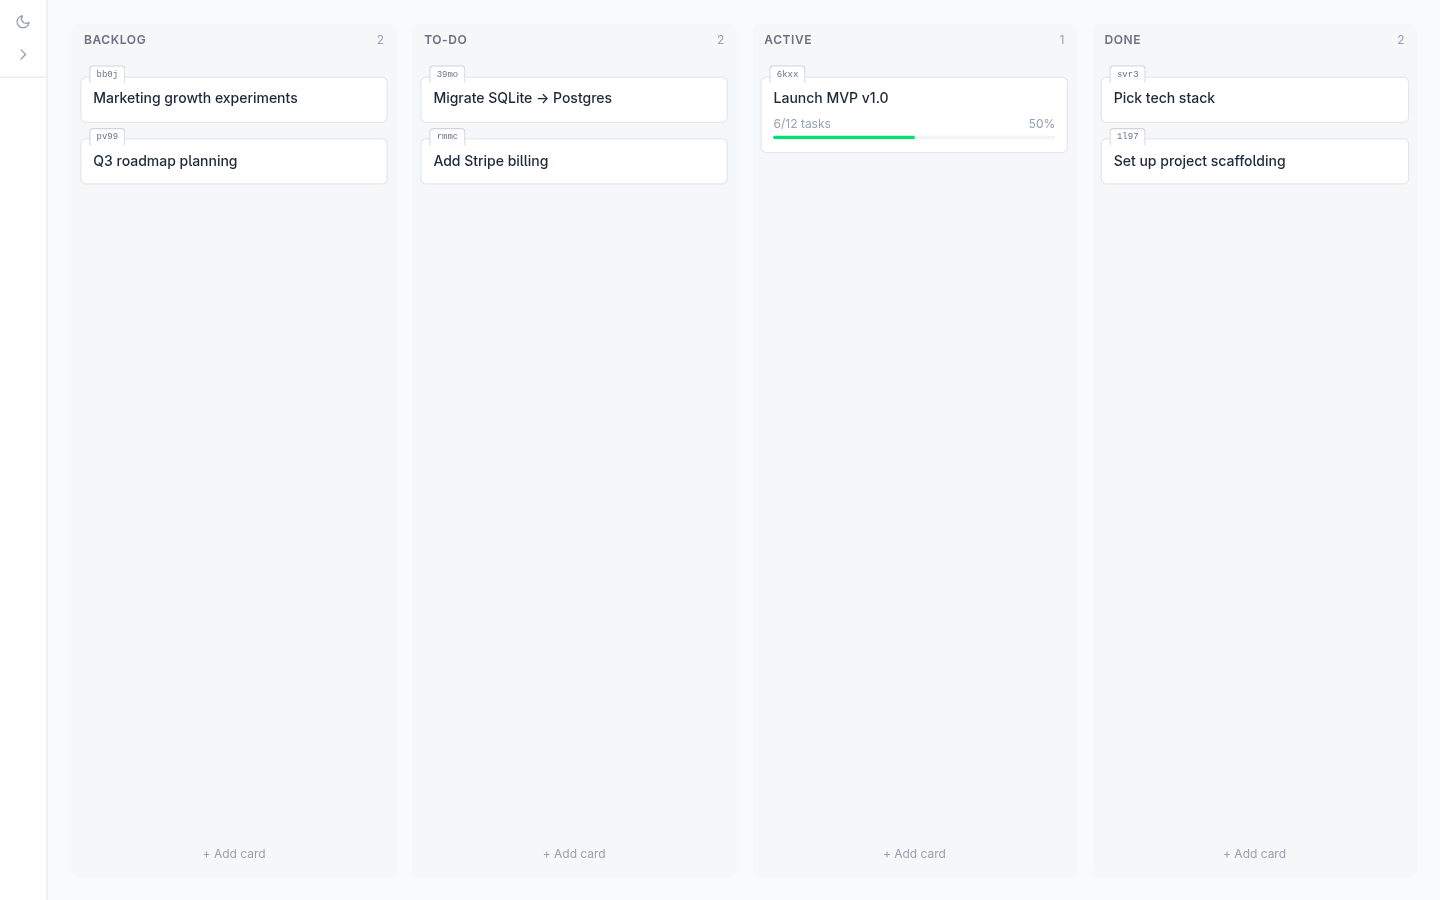
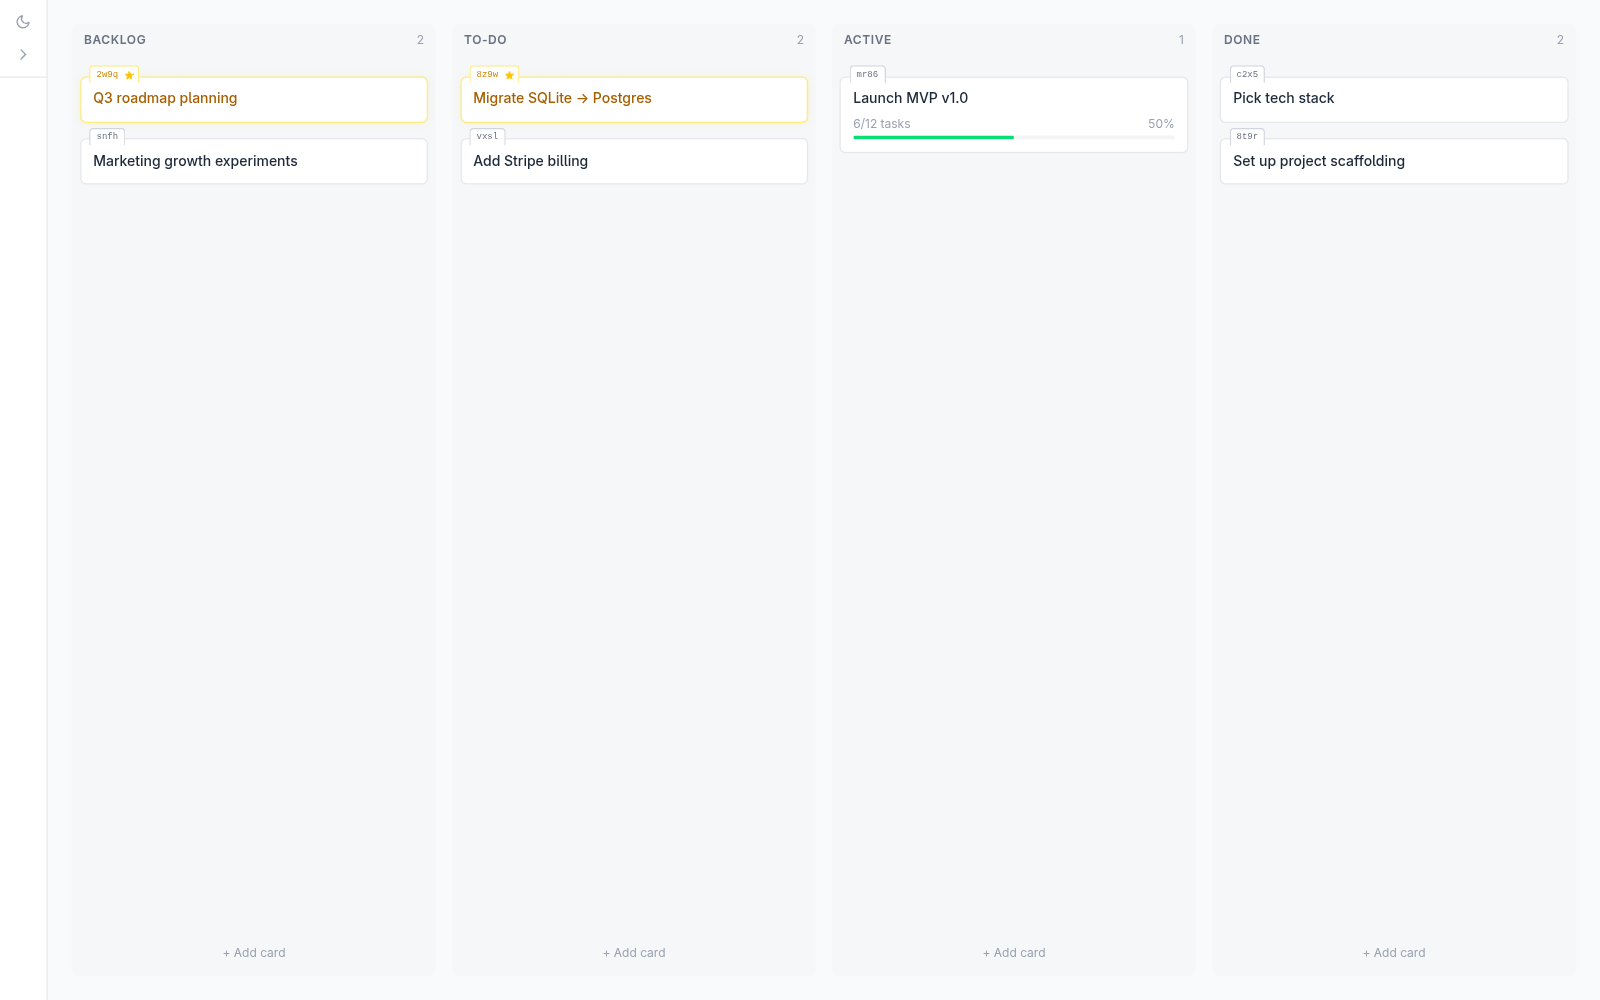
Unify card view (list + graph + detail), refresh README and screenshots
- Remove standalone /graph route and TreeView; graph now renders inline
  within the card view on wide screens (≥1280px) alongside the list and
  node detail panel.
- Refresh screenshots to show priority cards (gold glow), the unified
  list/graph/detail layout, and a clean graph close-up.
- Update README section captions to describe the new layout.
- Add project-level CLAUDE.md documenting the public repo topology:
  kanban.db and docs/ are gitignored and stay local.

diff --git a/client/src/components/list/ListView.tsx b/client/src/components/list/ListView.tsx
@@ -157,15 +157,6 @@ export function ListView() {
             &larr; Back
           </button>
           <button
-            onClick={() => navigate(`/boards/${boardId}/cards/${cardId}/graph`)}
-            className="px-2.5 py-1 text-sm text-gray-500 dark:text-nord-muted hover:text-gray-700 dark:hover:text-nord-text hover:bg-gray-100 dark:hover:bg-nord-hover rounded transition-colors"
-            title="View dependency graph"
-          >
-            <svg className="w-4 h-4" fill="none" stroke="currentColor" strokeWidth={1.5} viewBox="0 0 24 24">
-              <path strokeLinecap="round" strokeLinejoin="round" d="M7.5 14.25v2.25m3-4.5v4.5m3-6.75v6.75m3-9v9M3 20.25h18M3.75 3v16.5h16.5" />
-            </svg>
-          </button>
-          <button
             onClick={() => setShowDoc(true)}
             className="px-2.5 py-1 text-sm text-gray-500 dark:text-nord-muted hover:text-gray-700 dark:hover:text-nord-text hover:bg-gray-100 dark:hover:bg-nord-hover rounded transition-colors"
             title="Card documentation"
@@ -204,9 +195,9 @@ export function ListView() {
         </div>
       </div>
 
-      {/* Body: list (left) + embedded graph (right, wide screens only) */}
+      {/* Body: list (1/3) + embedded graph (2/3, wide screens) + node detail (right) */}
       <div className="flex flex-1 overflow-hidden">
-        <div className="flex-1 overflow-y-auto px-5 py-4">
+        <div className="basis-1/3 grow shrink overflow-y-auto px-5 py-4 xl:basis-1/3 xl:grow-0">
           {nodes.length === 0 ? (
             <div className="text-center py-16 text-gray-400 dark:text-nord-muted">
               <p className="text-sm">No tasks yet</p>
@@ -249,7 +240,7 @@ export function ListView() {
         </div>
 
         {cardId && nodes.length > 0 && (
-          <div className="hidden xl:block flex-1 border-l border-gray-200 dark:border-nord-border bg-white dark:bg-nord-surface">
+          <div className="hidden xl:block basis-2/3 grow-0 shrink-0 border-l border-gray-200 dark:border-nord-border bg-white dark:bg-nord-surface">
             <GraphPanel
               cardId={cardId}
               selectedNodeId={selectedNodeId}
@@ -257,21 +248,20 @@ export function ListView() {
             />
           </div>
         )}
-      </div>
 
-      {/* Node detail sidebar */}
-      {selectedNode && (
-        <NodeDetail
-          node={selectedNode}
-          cardId={cardId!}
-          onClose={() => setSelectedNodeId(null)}
-          onDelete={() => handleDeleteNode(selectedNode.id)}
-          allNodes={nodes}
-          dependencies={deps}
-          onAddDependent={handleAddDependent}
-          onSelectNode={handleDepClick}
-        />
-      )}
+        {selectedNode && (
+          <NodeDetail
+            node={selectedNode}
+            cardId={cardId!}
+            onClose={() => setSelectedNodeId(null)}
+            onDelete={() => handleDeleteNode(selectedNode.id)}
+            allNodes={nodes}
+            dependencies={deps}
+            onAddDependent={handleAddDependent}
+            onSelectNode={handleDepClick}
+          />
+        )}
+      </div>
 
       {showDoc && card && (
         <CardDocModal

diff --git a/client/src/App.tsx b/client/src/App.tsx
@@ -3,7 +3,6 @@ import { QueryClient, QueryClientProvider } from '@tanstack/react-query';
 import { ThemeProvider } from './hooks/useTheme';
 import { AppShell } from './components/layout/AppShell';
 import { BoardView } from './components/board/BoardView';
-import { TreeView } from './components/tree/TreeView';
 import { ListView } from './components/list/ListView';
 
 const queryClient = new QueryClient({
@@ -26,7 +25,6 @@ export default function App() {
               <Route path="/boards" element={<BoardView />} />
               <Route path="/boards/:boardId" element={<BoardView />} />
               <Route path="/boards/:boardId/cards/:cardId" element={<ListView />} />
-              <Route path="/boards/:boardId/cards/:cardId/graph" element={<TreeView />} />
             </Route>
           </Routes>
         </BrowserRouter>

diff --git a/README.md b/README.md
@@ -10,15 +10,19 @@ Built to be controllable from the command line via a simple REST API — the ide
 
 ![Board view](screenshots/01-board-view.png)
 
-### List view — nodes grouped by status, with dependencies inline
+Cards can be starred to mark them as priority — starred cards float to the top of their column and get a faint gold border + glow.
+
+### Card view — list (left), dependency graph (right), node detail (far right)
 
 ![List view](screenshots/02-card-list-view.png)
 
-### Canvas view — the full dependency graph
+The list groups nodes by status with dependencies inline. On wide screens (≥1280px) the dependency graph is rendered in the same view, occupying the right two-thirds. Selecting a node opens its detail panel on the far right; selection is synced between the list and the graph.
+
+### Dependency graph close-up
 
 ![Canvas view](screenshots/03-canvas-view.png)
 
-Node colors: green = done, orange = in progress, grey = locked (waiting on dependencies). Arrows show what blocks what.
+Node colors: green = done, orange = in progress, grey = locked (waiting on dependencies). Arrows show what blocks what. Layout is computed by ELK (layered algorithm) and re-runs when nodes/edges change.
 
 ## Stack
 
@@ -37,7 +41,7 @@ npm run dev
 - UI: <http://localhost:5174>
 - API: <http://localhost:3001>
 
-A SQLite file (`kanban.db`) is created on first run in the repo root.
+A SQLite file (`kanban.db`) is created on first run in the repo root. It's gitignored — your data stays local. Per-card working notes can be written to `docs/<card-id>.md` (also gitignored) via the card docs API or by hand.
 
 ## REST API
 
@@ -54,9 +58,11 @@ All create endpoints expect a client-generated 4-char alphanumeric `id`.
 
 Columns: `backlog`, `todo`, `active`, `done`.
 
+Cards have a `priority` flag (`0` or `1`). Priority cards sort to the top of their column in the UI.
+
 - `GET /api/boards/:boardId/cards`
 - `POST /api/boards/:boardId/cards` — `{ id, title, column? }`
-- `PATCH /api/cards/:id` — move column, rename, etc.
+- `PATCH /api/cards/:id` — move column, rename, toggle priority, etc.
 - `DELETE /api/cards/:id`
 
 ### Nodes

diff --git a/CLAUDE.md b/CLAUDE.md
@@ -1,0 +1,35 @@
+# Kanban (project-level notes)
+
+## Repository is public
+
+This directory is tracked by the public GitHub repo at <https://github.com/mrdrbrdr/kanban>. Anything committed and pushed becomes publicly visible.
+
+- **Default branch:** `main`
+- **Workflow:** edit code → commit → `git push` (goes straight to the public repo)
+- **No private branches or private history** — keep it that way.
+
+## What lives here but is NOT committed
+
+The `.gitignore` excludes everything personal:
+
+- `kanban.db`, `kanban.db-wal`, `kanban.db-shm`, `*.bak` — the live SQLite database. This is your kanban data (boards, cards, nodes, deps). Never `git add` it.
+- `docs/` — per-card working notes written via the `/api/cards/:id/doc` endpoint or directly at `~/sw/utilities/kanban/docs/<card-id>.md`. Treat these as private journal entries that happen to live next to the code.
+- `node_modules/`, `dist/`, `.vite/`, `.env`, `.playwright-mcp/` — standard ignores.
+
+**Rule of thumb before any commit:** run `git status` and confirm only code / README / screenshot / config files are staged. If you see `docs/` or `*.db` staged, stop and check `.gitignore`.
+
+## Operating the app
+
+API reference and curl recipes: @~/.claude/docs/kanban-api.md
+
+- API: <http://localhost:3001>
+- UI: <http://localhost:5174>
+- Service: `systemctl --user status kanban.service`
+
+## When writing public-facing code
+
+Because this repo is public, avoid:
+
+- Personal names, project names, or internal URLs in code comments, commit messages, or README/docs content that gets committed.
+- Hardcoded absolute paths like `/home/mrdrbrdr/...`.
+- Card IDs or board IDs that point to personal work (those IDs are fine as demo/test values, just don't leak context about what's on your real board).
